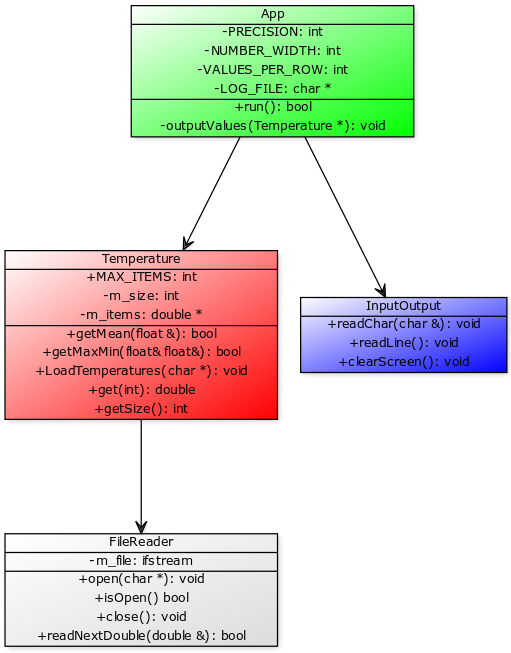
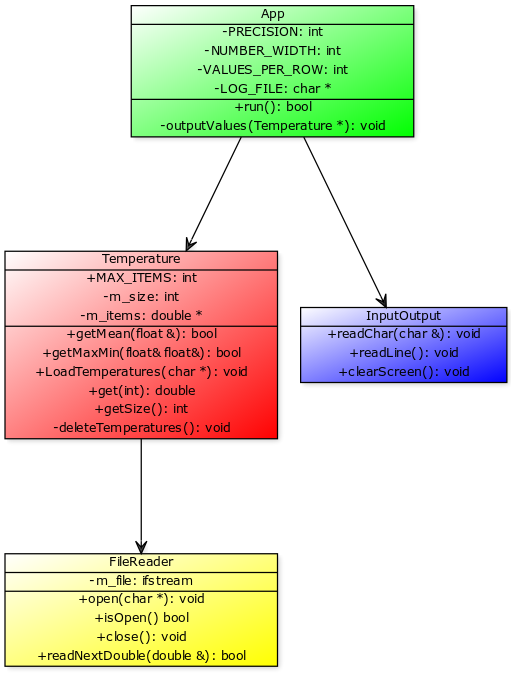
(Step 1 labb 1b and lab 1c) were fixed with: + Some UML stuff, renaming correction and so on. + added some function and fixed some comments.

diff --git a/step1/1dv434.s1.l1c/temperature.cpp b/step1/1dv434.s1.l1c/temperature.cpp
@@ -4,14 +4,14 @@
 #include "temperature.h"
 
 Temperature::~Temperature() {
-	if (m_items != NULL) {
-		delete[] m_items;
-	}
+	deleteTemperatures();
 }
 
 // Loads all temperatures from file.
 // Stops loading until reaching EOF or a non numeric character.
+// Removes old values.
 void Temperature::LoadTemperatures(char *a_filename) {
+    deleteTemperatures();
 	double *tempItems = new double[MAX_ITEMS];
 	int i;
 	FileReader inputFile;
@@ -47,6 +47,7 @@ int Temperature::getSize() {
 }
 
 // Gets a temperature value.
+// may throw out_of_range if out of range.
 double Temperature::get(int a_index) {
 	if (a_index < 0 || a_index > m_size) {
 		throw out_of_range("Out of range for items!");
@@ -77,6 +78,15 @@ double Temperature::getMean() {
 	}
 
 	return total / (double) m_size;
+}
+
+// Removes all temperatures (if there are any).
+void Temperature::deleteTemperatures() {
+    if (m_items == NULL) {
+        return;
+    }
+
+    delete[] m_items;
 }
 
 #endif // TEMPERATURE_CPP

diff --git a/step1/1dv434.s1.l1c/temperature.h b/step1/1dv434.s1.l1c/temperature.h
@@ -18,12 +18,14 @@ public:
 
 	// Loads all temperatures from file.
 	// Stops loading until reaching EOF or a non numeric character.
+	// Removes old values.
 	void LoadTemperatures(char *);
 
 	// Gets the size.
 	int getSize();
 
 	// Gets a temperature value.
+	// may throw out_of_range if out of range.
 	double get(int);
 
 	// Gets the max and min values.
@@ -35,6 +37,9 @@ public:
 private:
 	int m_size = 0;
 	double *m_items = NULL;
+
+	// Removes all temperatures (if there are any).
+	void deleteTemperatures();
 };
 
 #endif // TEMPERATURE_H

diff --git a/step1/1dv434.s1.l1b/debug.cpp b/step1/1dv434.s1.l1b/debug.cpp
@@ -16,6 +16,7 @@
 //		2015-03-31 Update Version 1.1.1 by Zlatko.
 /**********************************************************************/
 
+#include <cstdlib>
 #include <iostream>
 const int SIZE = 100;
 
